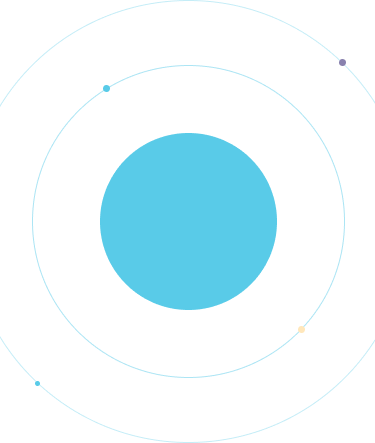
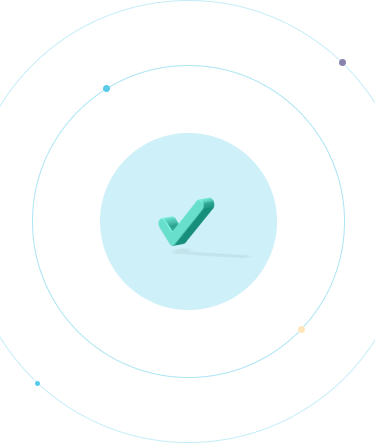
modify sign up success

Changed region(s): [[0.264, 0.2935, 0.7627, 0.7043]]

diff --git a/src/screens/singup/SignUpSuccess.tsx b/src/screens/singup/SignUpSuccess.tsx
@@ -2,14 +2,27 @@ import {NativeStackScreenProps} from '@react-navigation/native-stack';
 import React from 'react';
 import {Image, StyleSheet, Text, View} from 'react-native';
 import {RootStackParamList} from '../../App';
-import {Images} from '../../common';
+import {Colors, Fonts, Images, window} from '../../common';
+import {PrimaryButton, Spacer} from '../../components';
 
-type SignUpSuccessProps = NativeStackScreenProps<RootStackParamList, 'SignUp'>;
+type SignUpSuccessProps = NativeStackScreenProps<
+  RootStackParamList,
+  'SignUpSuccess'
+>;
+
+const height = (443 * window.width) / 375.0;
 
 export const SignUpSuccess = ({navigation}: SignUpSuccessProps) => {
   return (
     <View style={styles.container}>
       <Image source={Images.imgSignUpSuccess} style={styles.image}></Image>
+      <Spacer space={16} />
+      <Text style={styles.title}>Welcome Rahi!</Text>
+      <Spacer space={8} />
+      <Text style={styles.subTitle}>Let's get you set up</Text>
+      <View style={styles.bottomContainer}>
+        <PrimaryButton text="NEXT" onClick={() => {}} />
+      </View>
     </View>
   );
 };
@@ -20,7 +33,27 @@ const styles = StyleSheet.create({
   },
   image: {
     width: '100%',
-    resizeMode: 'contain',
+    height: height,
+    resizeMode: 'cover',
     alignSelf: 'center',
+  },
+  title: {
+    color: Colors.primaryText,
+    fontFamily: Fonts.SFBold,
+    fontSize: 20,
+    fontWeight: '700',
+    textAlign: 'center',
+  },
+  subTitle: {
+    color: Colors.secondaryText,
+    fontFamily: Fonts.SFRegular,
+    fontSize: 16,
+    fontWeight: '400',
+    textAlign: 'center',
+  },
+  bottomContainer: {
+    paddingHorizontal: 16,
+    marginTop: 64,
+    justifyContent: 'flex-end',
   },
 });
